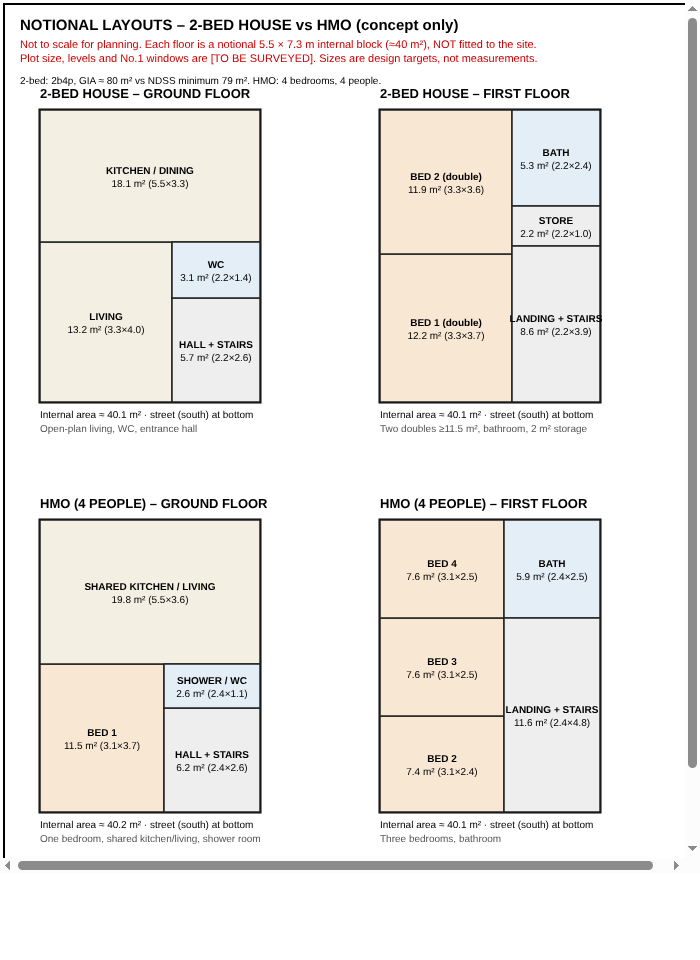
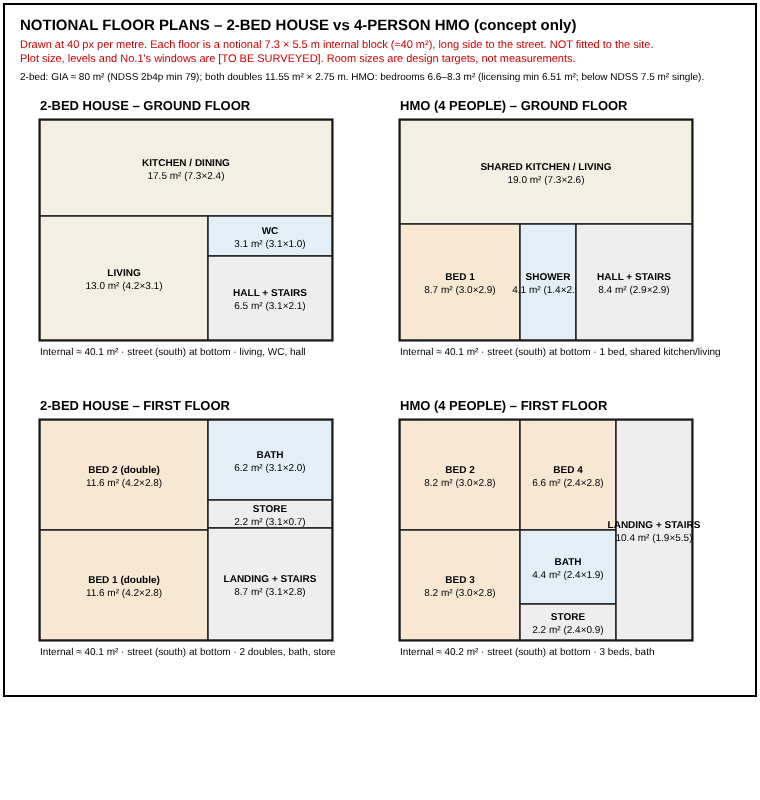
Add notional plans, elevations and illustrative visual
Claude-Session: https://claude.ai/code/session_01WQM9cMeDvrakvPTqSusGhx

Changed region(s): [[0.0, 0.0, 1.0, 0.875], [0.0, 0.5, 0.93, 0.9062], [0.12, 0.3125, 0.21, 0.375]]

diff --git a/planning-sandhill-road/preapp-response/5-technical-appendix.md b/planning-sandhill-road/preapp-response/5-technical-appendix.md
@@ -324,3 +324,13 @@ Chosen at the owner's request to propose whatever is most likely to be accepted.
 - Gradient and surface: the forecourt needs a gradient highways accepts (limit not verified); the bank
   must be cut back and the wall rebuilt. Use permeable paving.
 - Planning gain: two spaces answer the likely highways concern better than one.
+
+## Drawings and visual added (notional)
+- `layouts-2bed-vs-hmo`: floor plans rotated so the long side (7.3 m internal) faces the street and the block is
+  5.5 m deep, because the plot is shallow.
+- `elevations-notional`: front and side elevations of a two-storey house (assumed 5.0 m eaves, 35° pitch,
+  about 7.2 m ridge, about 8.0 × 6.2 m outside). All values are design assumptions.
+- `visual-illustrative`: a diagrammatic view from the south-east. Illustration only, not for the application.
+- Siting warning: my rough aerial check found little plot depth behind the neighbours' building line at the west
+  end, so the house probably cannot sit at the extreme west end. In the visual it is placed mid-plot. The survey
+  decides the position, and a house nearer No.1 would need the daylight tests to pass.
